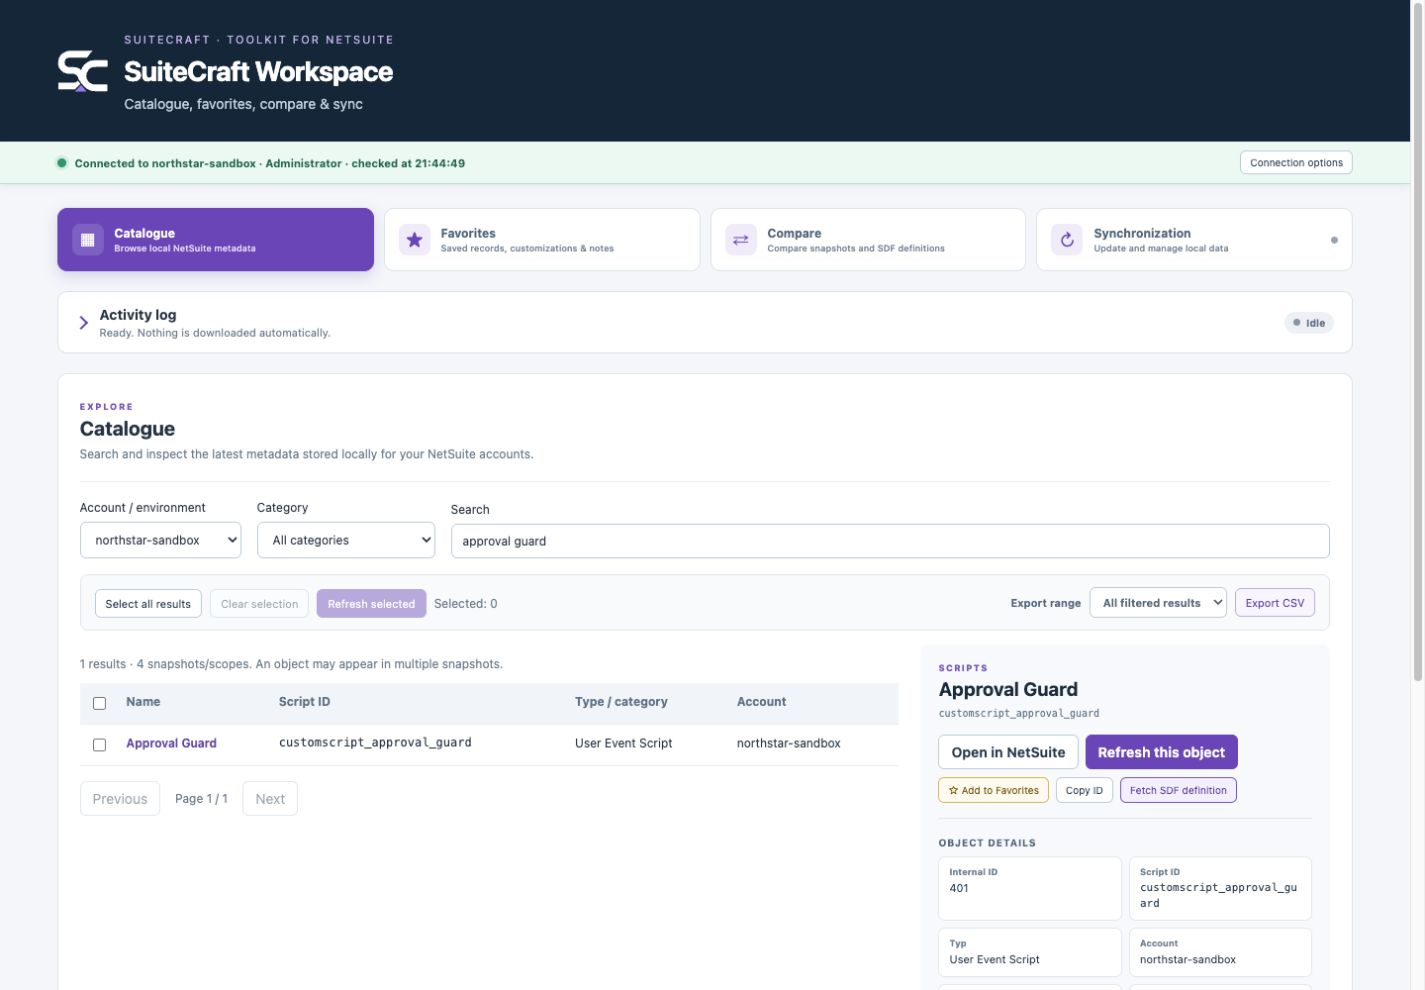
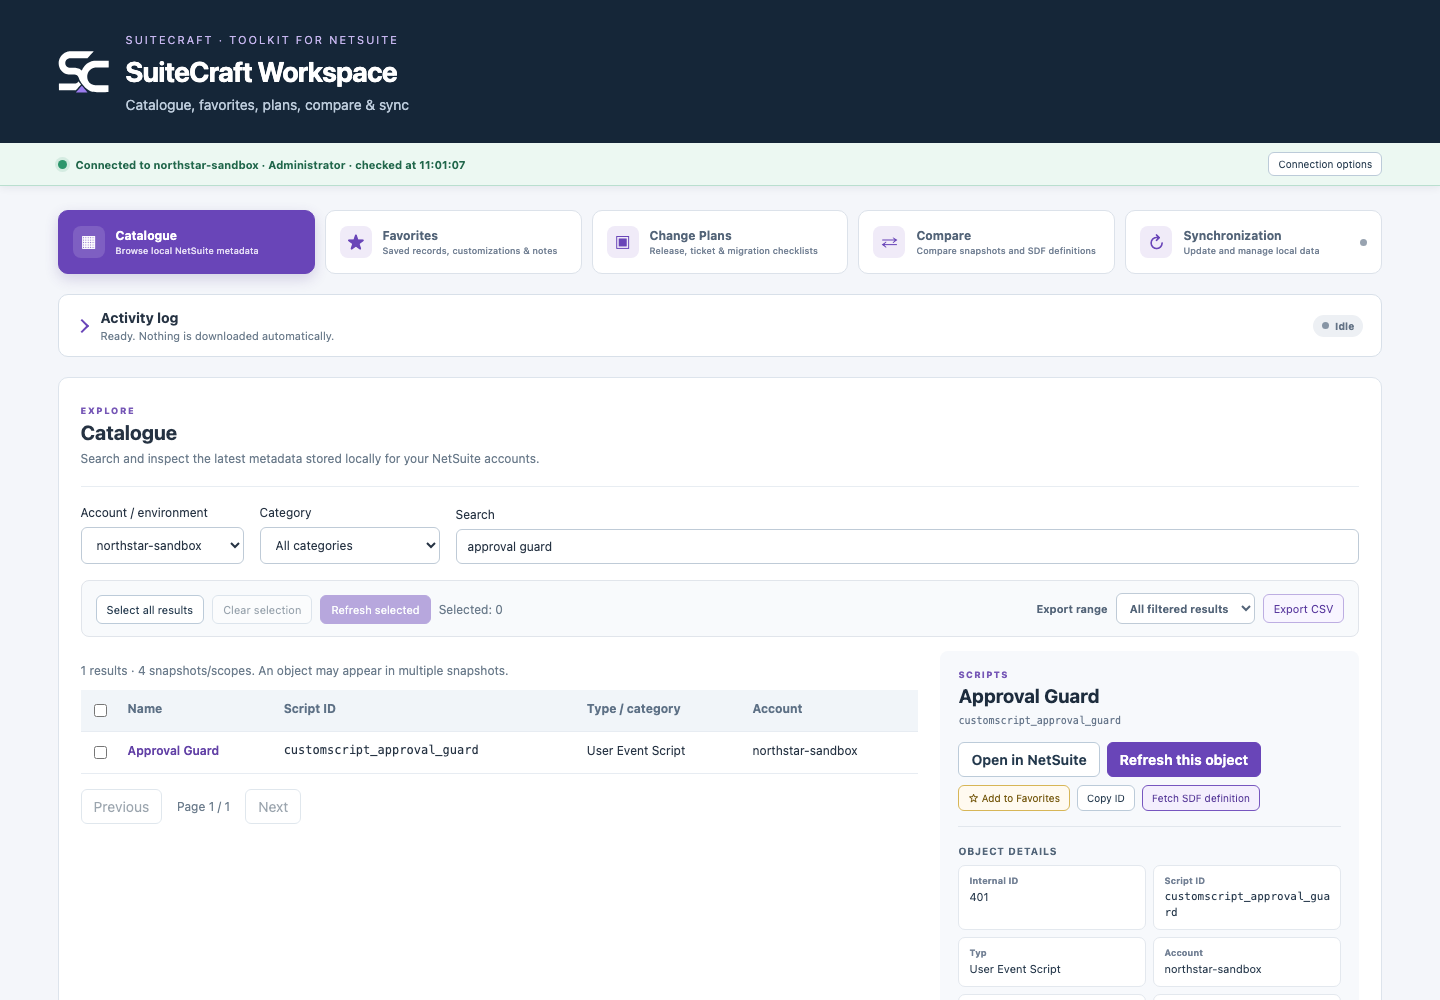
Refactor code structure for improved readability and maintainability

diff --git a/index.html b/index.html
@@ -43,13 +43,13 @@
 					<a class="button secondary" href="#tour">See SuiteCraft in action</a>
 				</div>
 				<p class="compatibility"><span aria-hidden="true">◆</span> Designed for Chrome and Brave · Runs locally in your browser</p>
-				<a class="release-chip" href="#changelog">Latest beta · 0.1.3 <span aria-hidden="true">→</span></a>
+				<a class="release-chip" href="#changelog">Latest beta · 0.2.0 <span aria-hidden="true">→</span></a>
 			</div>
 			<div class="hero-visual" aria-label="SuiteCraft interface preview">
 				<div class="glow"></div>
 				<div class="browser-card">
 					<div class="browser-bar"><i></i><i></i><i></i><span>SuiteCraft Workspace</span></div>
-					<img class="hero-product-screen" src="assets/screenshots/04-compare.png" alt="SuiteCraft snapshot comparison interface">
+					<img class="hero-product-screen" src="assets/screenshots/08-change-plans.png" alt="SuiteCraft Change Plan release readiness interface">
 				</div>
 			</div>
 		</section>
@@ -71,7 +71,7 @@
 					<img id="tour-image" class="tour-image" src="assets/screenshots/02-catalogue.png" alt="">
 				</div>
 				<aside class="tour-copy" aria-live="polite">
-					<span id="tour-number">01 / 07</span>
+					<span id="tour-number">01 / 08</span>
 					<p id="tour-kicker">CUSTOMIZATION CATALOGUE</p>
 					<h3 id="tour-title">Find the right object in seconds.</h3>
 					<p id="tour-description">Search by name or Script ID, combine filters and inspect the selected object without leaving the catalogue.</p>
@@ -94,7 +94,9 @@
 				<article class="feature-card"><span class="feature-number">03</span><div class="feature-icon">⌁</div><h3>Script &amp; Workflow Inspector</h3><p>See scripts, deployments and workflows linked to the current record type, with IDs, entry points and workflow activity.</p></article>
 				<article class="feature-card"><span class="feature-number">04</span><div class="feature-icon">◇</div><h3>Compare snapshots</h3><p>See what was added, removed or changed between environments or points in time, down to practical properties and SDF XML.</p></article>
 				<article class="feature-card"><span class="feature-number">05</span><div class="feature-icon">★</div><h3>Account favorites</h3><p>Save frequently used NetSuite objects with private notes and find them quickly from the popup or Workspace.</p></article>
-				<article class="feature-card"><span class="feature-number">06</span><div class="feature-icon">⇄</div><h3>System &amp; Debugger URLs</h3><p>Copy or switch between System and Debugger URL variants without rebuilding the address by hand.</p></article>
+				<article class="feature-card"><span class="feature-number">06</span><div class="feature-icon">✓</div><h3>Change Plans</h3><p>Prepare releases with target readiness checks, item statuses, notes, links and Markdown, CSV or JSON exports.</p></article>
+				<article class="feature-card"><span class="feature-number">07</span><div class="feature-icon">•••</div><h3>Record page UI</h3><p>Keep SuiteCraft shortcuts close to the record title and optionally wrap crowded NetSuite action bars across multiple rows.</p></article>
+				<article class="feature-card"><span class="feature-number">08</span><div class="feature-icon">⇄</div><h3>System &amp; Debugger URLs</h3><p>Copy or switch between System and Debugger URL variants without rebuilding the address by hand.</p></article>
 			</div>
 		</section>
 
@@ -117,7 +119,14 @@
 			</div>
 			<div class="release-list">
 				<details class="release-entry current-release" open>
-					<summary><span class="release-summary-main"><span class="release-status">CURRENT BETA</span><span class="release-title">0.1.3</span><span class="release-teaser">Record-page shortcuts, instant inspector reopening and clearer reports</span></span><span class="release-summary-side"><time datetime="2026-09-15">September 15, 2026</time><i aria-hidden="true"></i></span></summary>
+					<summary><span class="release-summary-main"><span class="release-status">CURRENT BETA</span><span class="release-title">0.2.0</span><span class="release-teaser">Change Plans, release readiness and deeper record-page insight</span></span><span class="release-summary-side"><time datetime="2026-09-17">September 17, 2026</time><i aria-hidden="true"></i></span></summary>
+					<div class="release-body"><div class="release-columns">
+						<section><strong>New</strong><ul><li>Build local Change Plans for releases, tickets and migrations, then add NetSuite pages directly from the record header.</li><li>Compare plan objects with an exact target account and role to identify deploy, aligned, manual and blocked work.</li><li>Preview and copy Markdown release notes or export complete plans as CSV and JSON.</li><li>Inspect buttons found on a record page and resolve available workflow details in Script &amp; Workflow Inspector.</li></ul></section>
+						<section><strong>Improved</strong><ul><li>Plans include searchable history, item statuses, release and technical notes, plus ticket and delivery links.</li><li>Inspector views now share a consistent searchable layout and automatically load workflow activity and history.</li><li>Record shortcuts have a more accurate live preview, contextual availability and unified movable popups.</li><li>An optional UI feature wraps crowded NetSuite record actions across multiple rows.</li></ul></section>
+					</div><p class="release-note">Change Plans, Favorites and their private notes remain local. Shared snapshot packages continue to exclude them.</p></div>
+				</details>
+				<details class="release-entry previous-release">
+					<summary><span class="release-summary-main"><span class="release-status">PREVIOUS RELEASE</span><span class="release-title">0.1.3</span><span class="release-teaser">Record-page shortcuts, instant inspector reopening and clearer reports</span></span><span class="release-summary-side"><time datetime="2026-09-15">September 15, 2026</time><i aria-hidden="true"></i></span></summary>
 					<div class="release-body"><div class="release-columns">
 						<section><strong>New</strong><ul><li>Open Record Explorer, Script &amp; Workflow Inspector and Favorites directly from NetSuite record headers.</li><li>Choose title, header-action or floating placement, including the top-right or bottom-right corner.</li><li>Export clearer account-level comparison reports for review outside SuiteCraft.</li></ul></section>
 						<section><strong>Improved</strong><ul><li>Record Explorer now reopens instantly with its filters, session pins and scroll position intact.</li><li>Shortcut appearance and position can be adjusted with a live preview.</li><li>Comparison summaries focus on practical configuration changes and easier scanning.</li></ul></section>

diff --git a/assets/site.js b/assets/site.js
@@ -12,6 +12,7 @@ document.querySelector('#year').textContent=String(new Date().getFullYear());
 const tourSlides=[
 	{tab:'Catalogue',kicker:'CUSTOMIZATION CATALOGUE',title:'Find the right object in seconds.',description:'Search by name or Script ID, combine filters and inspect the selected object without leaving the catalogue.',points:['Account and category filters','Direct NetSuite links','Favorites and SDF actions'],image:'02-catalogue.png',step:2},
 	{tab:'Favorites',kicker:'ACCOUNT FAVORITES',title:'Keep important NetSuite objects close.',description:'Save frequently used records and customizations with private notes scoped to the relevant account.',points:['Grouped by object type','Account, type and text filters','Direct links back to NetSuite'],image:'06-favorites.png',step:7},
+	{tab:'Change Plans',kicker:'RELEASE PLANNING',title:'Turn a list of changes into a release plan.',description:'Collect structural changes and supporting references, compare them with a target account and prepare practical release notes.',points:['Target readiness and blockers','Release and technical notes','Markdown, CSV and JSON export'],image:'08-change-plans.png',step:8},
 	{tab:'Compare',kicker:'SNAPSHOT COMPARISON',title:'See what changed between accounts.',description:'Compare environments or historical versions and inspect meaningful differences property by property.',points:['Added, removed and changed statuses','Stable Script ID matching','Level 2 SDF comparison'],image:'04-compare.png',step:5},
 	{tab:'Sync',kicker:'LOCAL SNAPSHOTS',title:'Refresh metadata only when you choose.',description:'Synchronize selected categories through the signed-in NetSuite tab and continue an interrupted operation.',points:['Manual, category-based synchronization','Optional workflow and record details','Version history and recovery'],image:'05-synchronization.png',step:6},
 	{tab:'Quick access',kicker:'QUICK ACCESS',title:'Your daily tools, one click away.',description:'Open SuiteCraft from the current NetSuite page and move directly to the tool you need.',points:['Search the current account','Open Record Explorer or Script & Workflow Inspector','Reach Workspace, Favorites and developer URLs'],image:'01-quick-access.png',step:1},

diff --git a/assets/demo.js b/assets/demo.js
@@ -5,7 +5,8 @@ const steps=[
 	{image:'07-script-workflow-inspector.png',kicker:'04 · SCRIPTED RECORDS',title:'See what is attached to this record type.',description:'Review scripts, deployments, workflows and available workflow activity without editing the underlying configuration.',callout:'IDs, entry points, status and ownership stay visible in one read-only inspector.'},
 	{image:'04-compare.png',kicker:'05 · SNAPSHOT COMPARISON',title:'See what changed between accounts.',description:'Compare environments or historical versions and inspect meaningful differences property by property.',callout:'Comparison matching follows stable Script IDs and supports deeper SDF inspection.'},
 	{image:'05-synchronization.png',kicker:'06 · LOCAL SNAPSHOTS',title:'Refresh metadata only when you choose.',description:'Select categories, request full details and continue interrupted synchronization through the signed-in NetSuite tab.',callout:'Completed work is retained so a lost connection does not always mean starting again.'},
-	{image:'06-favorites.png',kicker:'07 · ACCOUNT FAVORITES',title:'Keep important NetSuite objects close.',description:'Save objects with private notes and browse them by account, type, date or search term.',callout:'Favorites remain private and scoped to the relevant account.'}
+	{image:'06-favorites.png',kicker:'07 · ACCOUNT FAVORITES',title:'Keep important NetSuite objects close.',description:'Save objects with private notes and browse them by account, type, date or search term.',callout:'Favorites remain private and scoped to the relevant account.'},
+	{image:'08-change-plans.png',kicker:'08 · RELEASE PLANNING',title:'Know what is ready to deploy.',description:'Collect release changes and supporting references, compare structural objects with the target account and prepare release notes.',callout:'Readiness separates deploy work, aligned objects, manual steps and blockers.'}
 ];
 let current=Math.max(0,Math.min(steps.length-1,Number(new URLSearchParams(location.search).get('step')||1)-1));
 const stage=document.querySelector('#demo-stage'),buttons=document.querySelector('#step-buttons');

diff --git a/assets/site.css b/assets/site.css
@@ -35,3 +35,4 @@ body{overflow-x:hidden}.hero>*{min-width:0}.browser-card,.tour-frame,.tour-media
 .tour-tabs button span{font-size:9px}.tour-tabs button strong{font-size:11px}
 .beta p:not(.eyebrow),.about p:not(.eyebrow){font-size:14px}.beta-action small{font-size:11px}.status-pill{font-size:11px}
 .footer-brand span,.site-footer p{font-size:10px}.footer-links a{font-size:11px}
+.tour-tabs{grid-template-columns:repeat(8,1fr)}

diff --git a/demo.html b/demo.html
@@ -27,7 +27,7 @@
 		<nav class="tour-controls" aria-label="Product tour controls">
 			<button id="previous" type="button" aria-label="Previous step">←</button>
 			<div id="step-buttons"></div>
-			<span id="step-count">1 / 6</span>
+			<span id="step-count">1 / 8</span>
 			<button id="next" type="button" aria-label="Next step">→</button>
 		</nav>
 	</main>

diff --git a/README.md b/README.md
@@ -6,7 +6,7 @@ Live website: [krolikowskidamian.github.io/suitecraft-site](https://krolikowskid
 
 This repository is deliberately self-contained. It contains the website, synthetic product screenshots and presentation assets only. The SuiteCraft browser-extension source code is maintained separately and is not published here.
 
-`demo.html` is a reusable, synthetic six-step product tour. It contains fictional account names, object IDs and values only. Query parameters such as `demo.html?step=3` open a deterministic scene that can be captured for website, store and release screenshots.
+`demo.html` is a reusable, synthetic eight-step product tour. It contains fictional account names, object IDs and values only. Query parameters such as `demo.html?step=3` open a deterministic scene that can be captured for website, store and release screenshots.
 
 The same real-UI screenshots are embedded in the `#tour` section of `index.html`. The standalone tour is retained as an optional full-screen view and a direct link for testers, rather than the landing page's primary navigation path.
 

diff --git a/assets/screenshots/README.md b/assets/screenshots/README.md
@@ -2,7 +2,7 @@
 
 Captured from the real SuiteCraft interface through the permanent SuiteCraft Lab scenarios. `demo.html?step=N` presents these images as a deterministic product tour. All visible account, object ID and value examples are fictional and contain no client information.
 
-Tour images use a consistent 1440×1000 landscape canvas. Run `npm run marketing:screenshots` from the extension repository to refresh them. The command opens isolated, headless Brave sessions and writes the current product scenes directly into this directory.
+Tour images use a consistent 1440×1000 landscape canvas. Run `npm run marketing:screenshots` from the extension repository to refresh them. The command opens isolated, headless Chrome or Brave sessions and writes the current product scenes directly into this directory.
 
 Refresh only the affected images after a UI change. Product version labels and test-environment badges are intentionally hidden in marketing captures so routine releases do not make otherwise current screenshots look stale.
 
